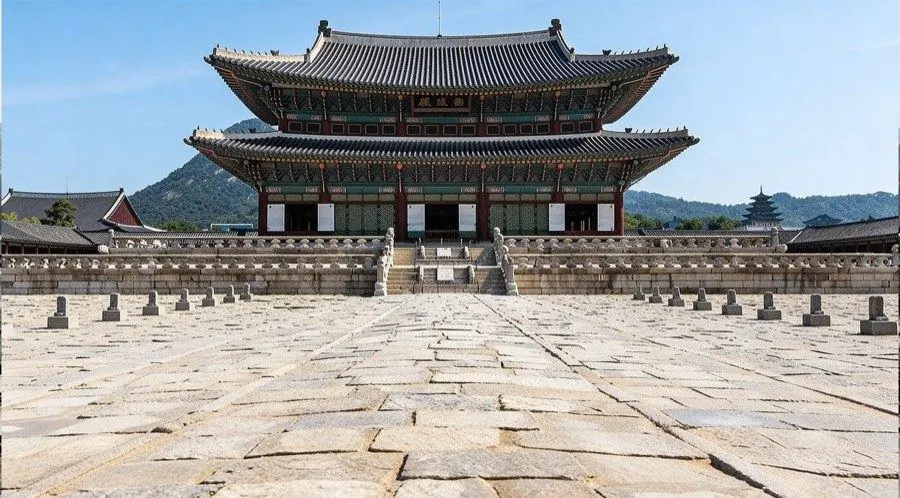
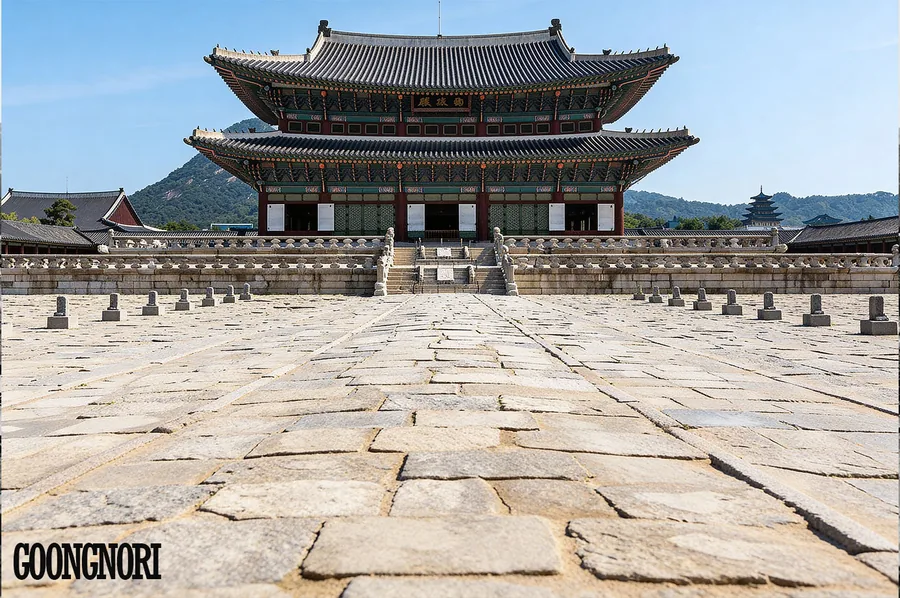
Fix gate-appear background to match Figma's actual crop — real root cause
Pulled the real Gate 등장 frame (node 49:25) from Figma and compared it
pixel-for-pixel against our deployed background asset. They're the same
source photo, but bg-gate-appear-900.webp is cropped to a wider aspect
ratio with the bottom ~17% trimmed off (aspect 1.81 vs Figma's 1.50) —
so any position expressed as a % of screen height was pointing at a
different part of the scene than in Figma, no matter how carefully the
number was chosen. That's why three straight rounds of coordinate
tuning kept missing.

Replaced the background with a crop matching Figma's source framing,
and reverted the character/dialogue position and sizing to the exact
Figma frame values (pt-160/812=19.73dvh, character 300/812=36.99dvh,
gap 28px, dialogue font 16px/1.55/pad 20px) — now that the background
matches, these land Goong-i on the open courtyard exactly like Figma,
no more guessing. Bottom padding is intentionally smaller than Figma's
103px (and gap trimmed slightly) so the longest EN dialogue still fits
without scrolling; verified against all four languages down to a
320x568 viewport.

diff --git a/css/style.css b/css/style.css
@@ -644,13 +644,14 @@ button {
    ============================================================ */
 .gate-appear {
   align-items: center;
-  /* top offset은 배경 사진 자체를 기준으로 잡음 — object-fit:cover가 이 배경(900x498,
-     옆으로 넓음)을 세로 방향은 크롭 없이 꽉 채우기 때문에, 사진 속 세로 위치 %가 화면
-     세로 위치 %와 그대로 일치함. 계단/돌기둥(답도 표석) 열이 사진 기준 45~60%까지
-     이어지므로 궁이 발밑을 69%(top 32dvh)에 둬 마당 박석 위에 서 있게 하되, 가장 긴
-     번역(EN)까지 스크롤 없이 다 들어가도록 아래 여백/줄간격을 같이 줄임(패딩바텀·gap·
-     대사 폰트/줄간격 — 전부 이 화면 전용 클래스라 다른 화면 CTA/카드에는 영향 없음). */
-  padding: calc(clamp(90px, 32dvh, 308px) + env(safe-area-inset-top, 0px)) clamp(20px, 7.47vw, 33px) calc(clamp(14px, 2dvh, 32px) + env(safe-area-inset-bottom, 0px));
+  /* top/character 수치는 실제 Figma 프레임(49:25, 375x812)에서 그대로 가져온 값 —
+     pt-160/812=19.73%, 캐릭터 300/812=36.99%. 이전엔 이 수치가 안 맞아 보였는데, 원인은
+     좌표가 아니라 배경 이미지 자체가 Figma가 쓰는 원본 사진과 다르게(아래쪽 크롭+다른
+     비율로) 배포되어 있었던 것 — bg-gate-appear-900.webp를 Figma의 원본 크롭으로
+     교체하니 좌표를 그대로 써도 궁이가 정확히 같은 지점(계단 아래 마당)에 섬. 다만
+     하단 padding만은 Figma 원본(103px)보다 줄여서(gap도 살짝) 가장 긴 EN 번역까지
+     스크롤 없이 들어가게 함 — 둘 다 이 화면 전용 클래스라 다른 화면엔 영향 없음. */
+  padding: calc(clamp(56px, 19.73dvh, 190px) + env(safe-area-inset-top, 0px)) clamp(20px, 7.47vw, 33px) calc(clamp(12px, 1.6dvh, 24px) + env(safe-area-inset-bottom, 0px));
 }
 
 .gate-appear__bottom {
@@ -659,7 +660,7 @@ button {
   display: flex;
   flex-direction: column;
   align-items: center;
-  gap: clamp(8px, 1.2dvh, 14px);
+  gap: clamp(10px, 2dvh, 24px);
   width: 100%;
 }
 
@@ -672,13 +673,13 @@ button {
 
 .gate-appear__dialogue {
   width: 100%;
-  padding: clamp(12px, 4.5vw, 20px);
+  padding: clamp(14px, 5.33vw, 24px);
   background: var(--color-bg-surface-raised);
   border-radius: 20px;
   box-shadow: var(--shadow-card);
   font-family: var(--font-ko);
-  font-size: clamp(13px, 4vw, 18px);
-  line-height: 1.45;
+  font-size: clamp(14px, 4.27vw, 19px);
+  line-height: 1.55;
   color: var(--color-text-primary);
 }
 
